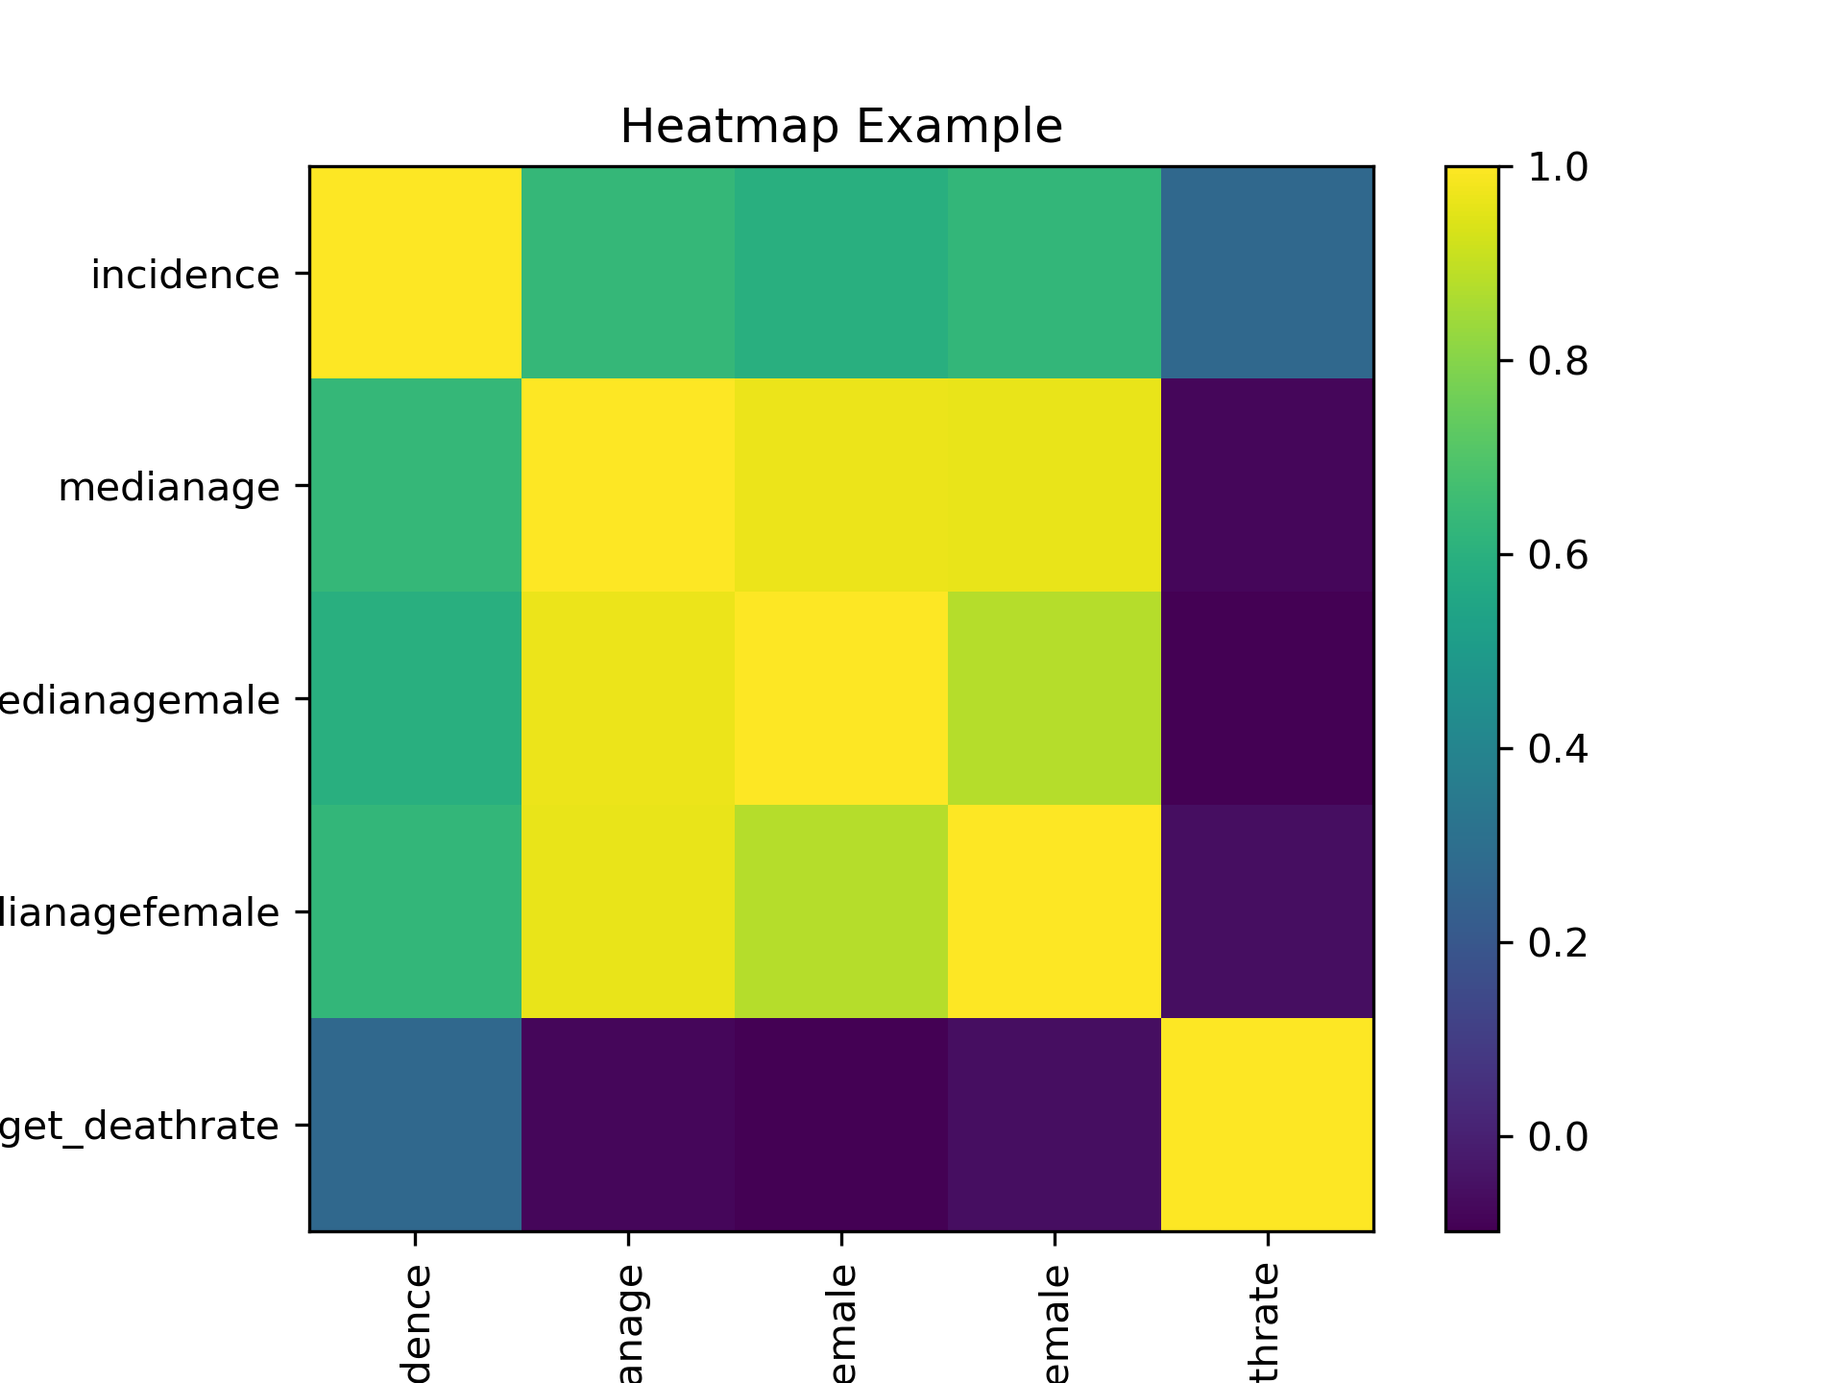
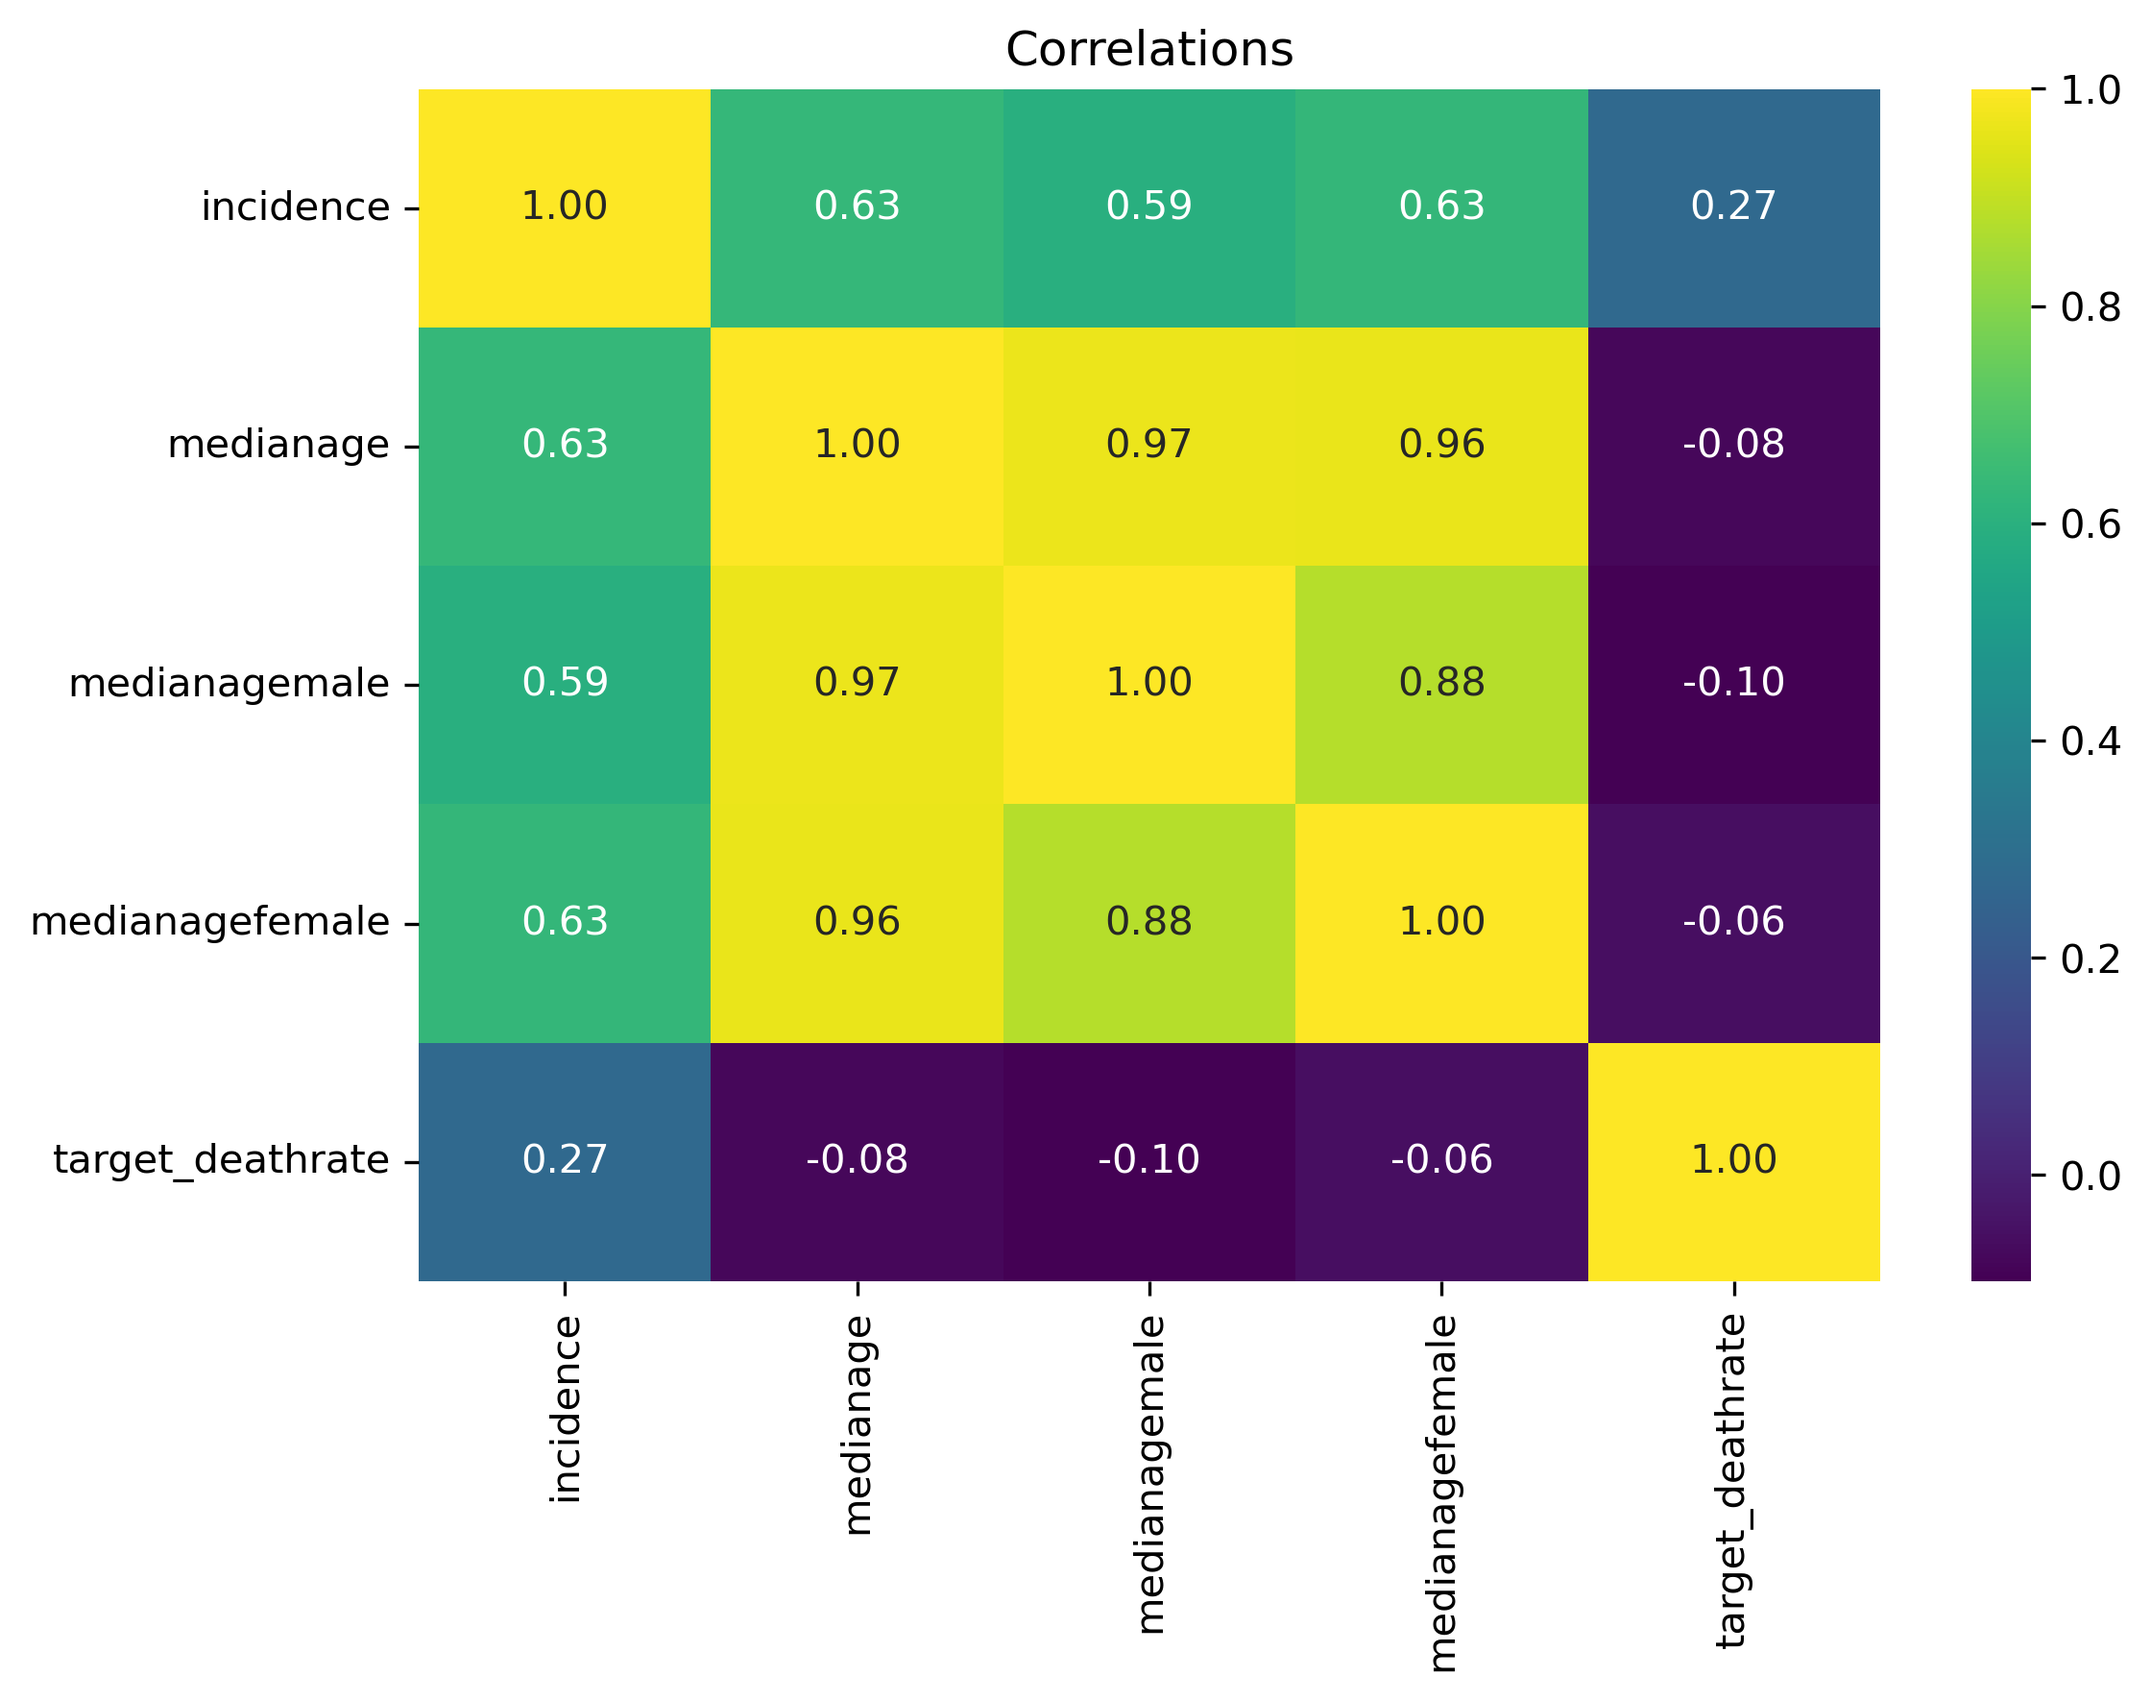
Adding a finding.

diff --git a/README.md b/README.md
@@ -41,6 +41,10 @@ git clone https://github.com/jordanskesner/plotters-against-cancer.git
 5. The number of clinical trials per capita has a weak correlation with cancer statistics, suggesting that other factors may play a more significant role in influencing cancer outcomes.
 ![finding5](./results/figures/correlation_between_cancer_statistics_and_number_of_clinical_trials_per_capita_in_the_given_county.png)
 
+6. There is a strong correlation between cancer incidence and median age, with a correlation coefficient of 0.63 overall, 0.59 for median male age, and 0.62 for median female age.
+![finding6](./results/figures/age_incidence_correlations.png)
+![finding6](./results/figures/age_incidence.png)
+
 # Acknowledgments
 
 This project utilizes the [Uncovering Trends in Health Outcomes and Socioeconomic Factors dataset](https://www.kaggle.com/datasets/thedevastator/uncovering-trends-in-health-outcomes-and-socioec/data) available on Kaggle.
